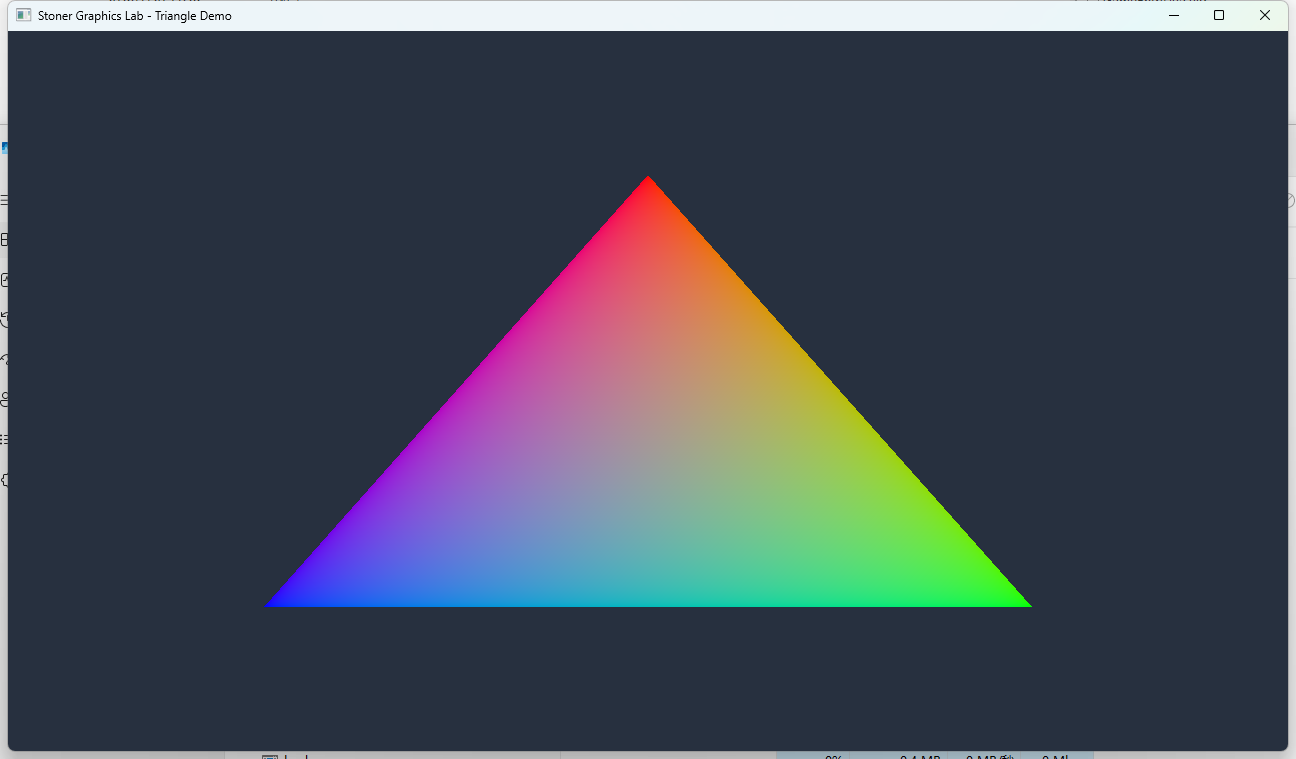
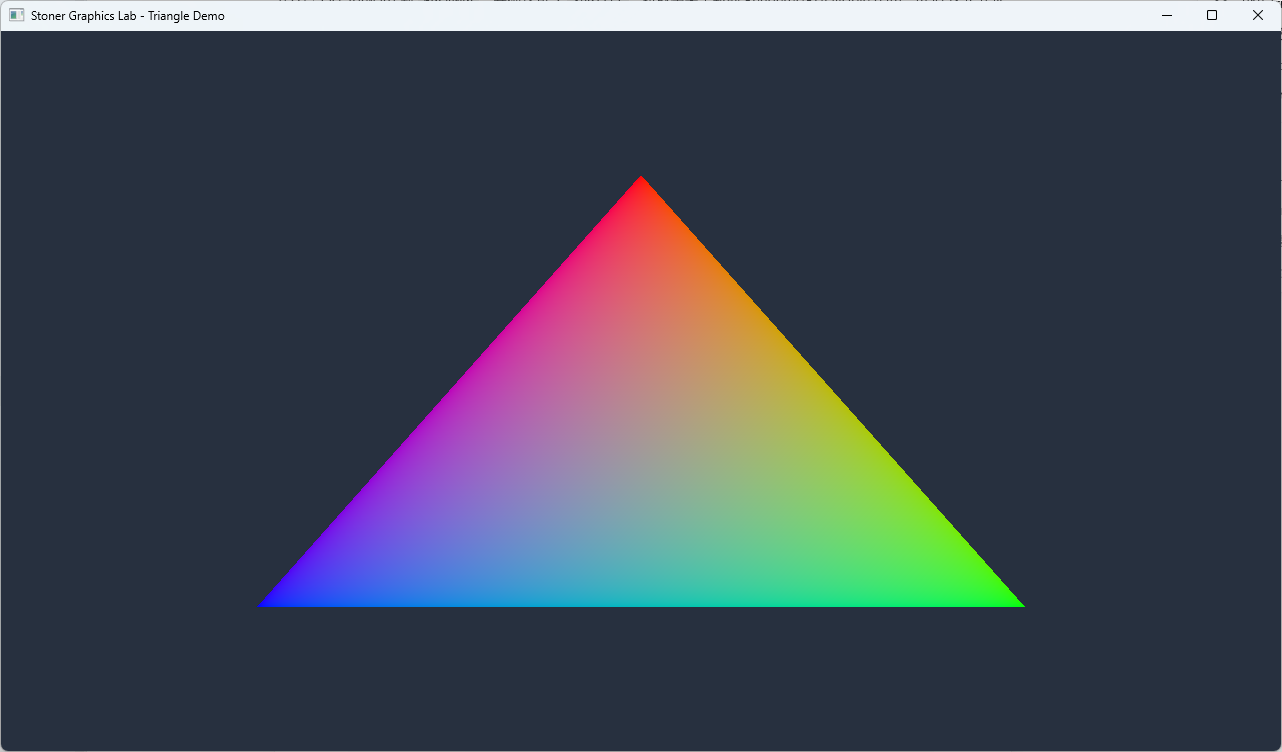
test(validation): refresh Windows triangle evidence

Changed region(s): [[0.0, 0.0, 1.0, 1.0], [0.1872, 0.7952, 0.8112, 0.8258]]

diff --git a/Validation/018/completion.md b/Validation/018/completion.md
@@ -12,8 +12,8 @@ Status: In progress
 - The same native probe returns controlled runtime-unavailable inside the Metal-inaccessible sandbox and never silently falls back.
 - Formal macOS run `macos-018-75f1e38-20260722T232702` completed naturally on an Apple M4 Pro with 10,000 of 10,000 frames, first presentation at 335.915 milliseconds, 22 recoveries with a 2.649-millisecond maximum, 75 RSS samples with 99,516,416-byte and 122,945,536-byte medians, and zero final live objects. Its same-run screenshot visibly shows one non-degenerate RGB-interpolated triangle without unrelated desktop content.
 - Windows debug build succeeds with Visual Studio Community 2026 (MSVC 19.51.36248), Vulkan SDK 1.4.350.0, and the persistent GLFW 3.4 package at `D:\Programs\glfw-3.4`; the full `StonerTest.exe` regression suite passes.
-- Windows deterministic validation completes 4,096 of 4,096 frames with 28 memory samples, a 9,293,824-byte baseline median, a 9,297,920-byte final median, and zero final live objects.
-- Historical Windows run `windows-018-682e236-20260721T112047` completed the formal profile and its screenshot shows one non-degenerate RGB-interpolated triangle. Because the visible frame path was subsequently routed through Renderer/RHI bindings, this pair is retained as development evidence but must be regenerated from the current implementation before final acceptance.
+- Current Windows deterministic validation at `69c404b` completes 4,096 of 4,096 frames with two configured frame slots, 28 memory samples, equal 8,519,680-byte baseline/final medians, and zero final live objects.
+- Formal Windows run `windows-018-69c404b-20260722T234116` completed naturally on an NVIDIA GeForce RTX 3080 with driver 581.32. It completed 10,000 of 10,000 frames through the Renderer/RHI visible path with two frame slots, first presented at 3,772.743 milliseconds, and recorded 21 recoveries after exactly 20 minimize/restore operations with a 47.526-millisecond maximum. Its 75 RSS samples produced 138,719,232-byte and 190,373,888-byte medians, final live objects were zero, and validation passed. The same-run window-only screenshot visibly shows one non-degenerate RGB-interpolated triangle without unrelated or sensitive desktop content; temporary per-cycle captures confirmed the triangle reappeared without corruption after every restore.
 - The current implementation prepares a real forward frame in Renderer, records it through `FForwardFrameExecutor` into native RHI bindings, and submits/presents it through two rotating frame slots with image-indexed render-finished synchronization.
 - Private-driver, demo orchestration, SPIR-V stage/entry-point, swapchain generation/stale-image, logical/framebuffer-size, minimize/restore, and close/Escape regression tests pass locally.
 - Three-platform deterministic and Linux Lavapipe validation jobs are configured in `.github/workflows/ci.yml`.
@@ -23,21 +23,20 @@ Status: In progress
 | Requirements | Status | Evidence or remaining gate |
 |---|---|---|
 | FR-001, FR-004 through FR-006 | Complete | Standalone target, checked-in validated shaders, vertex upload, and real offscreen Vulkan draw are implemented and tested. |
-| FR-002 | Complete on current macOS; Windows pending | GLFW creates and owns the primary visible window; current-path macOS evidence passes and Windows must be refreshed. |
-| FR-003, FR-007, FR-008 | Complete on current macOS; Windows pending | The demo builds a Renderer forward plan, consumes backend-neutral native RHI bindings through `FForwardFrameExecutor`, then submits/presents in Vulkan without leaking native types upward. |
-| FR-009, FR-010 | Complete on current macOS; Windows pending | The visible loop polls events, acquires, records through Renderer/RHI, rotates two frame slots, submits with image-indexed synchronization, and presents through the real swapchain. |
-| FR-011 through FR-013 | Complete on current macOS; Windows pending | Generation-aware recreation, zero-extent pause, and 22 real macOS recoveries pass with a 2.649-millisecond maximum. |
+| FR-002 | Complete on current Windows and macOS | GLFW creates and owns the primary visible window; both current-path evidence pairs pass manual inspection. |
+| FR-003, FR-007, FR-008 | Complete on current Windows and macOS | The demo builds a Renderer forward plan, consumes backend-neutral native RHI bindings through `FForwardFrameExecutor`, then submits/presents in Vulkan without leaking native types upward. |
+| FR-009, FR-010 | Complete on current Windows and macOS | The visible loop polls events, acquires, records through Renderer/RHI, rotates two frame slots, submits with image-indexed synchronization, and presents through the real swapchain. |
+| FR-011 through FR-013 | Complete on current Windows and macOS | Generation-aware recreation and zero-extent pause pass 22 macOS recoveries (2.649-millisecond maximum) and 21 Windows recoveries (47.526-millisecond maximum). |
 | FR-014 through FR-017 | Complete for implemented modes | Strict CLI, bounded validation, reverse shutdown, stable diagnostics, failure injection, deterministic coverage, and interactive visible execution pass. |
-| FR-018 | Partial | Three-platform workflow and Linux Lavapipe job are configured; green CI identity plus fresh Windows/macOS evidence are pending after the visible-path integration. |
+| FR-018 | Partial | Three-platform workflow and Linux Lavapipe job are configured, and both current-path visible evidence pairs pass; green CI identity and Linux artifact inspection remain pending. |
 | FR-019 through FR-021 | Complete | Memory/live-object gates, full local regressions, and the hardcoded-triangle scope boundary are covered. |
-| SC-001 | Complete on current macOS; Windows pending | macOS first presentation passes at 335.915 milliseconds with matching screenshot/log evidence. |
+| SC-001 | Complete on current Windows and macOS | First presentation passes at 335.915 milliseconds on macOS and 3,772.743 milliseconds on Windows with matching screenshot/log evidence. |
 | SC-002, SC-004 through SC-006, SC-008, SC-009 | Complete for local applicable paths | Deterministic endurance/failure tests pass; native macOS offscreen endurance also passes. |
-| SC-003 | Complete on current macOS; Windows pending | Deterministic timing boundaries pass and all 22 macOS recoveries are below 2,000 milliseconds. |
+| SC-003 | Complete on current Windows and macOS | Deterministic timing boundaries pass; all 22 macOS and 21 Windows observed recoveries are below 2,000 milliseconds. |
 | SC-007 | Pending | Requires a green identified CI matrix, Linux Lavapipe artifact, and both visible platform evidence pairs. |
 
 ## External Completion Gates
 
 - GitHub Actions run/commit identity and Linux Lavapipe artifact have not yet been inspected.
 - macOS run `macos-018-75f1e38-20260722T232702` has a matching screenshot and normalized passing log; both were manually inspected.
-- Windows run `windows-018-682e236-20260721T112047` has a matching local screenshot and normalized log, but predates the Renderer/RHI visible-path integration and must be regenerated.
-- The real Windows 10,000-frame/20-cycle validation must be repeated on the current implementation.
+- Windows run `windows-018-69c404b-20260722T234116` has a matching window-only screenshot and normalized passing log; both were manually inspected against the current Renderer/RHI visible path.

diff --git a/specs/018-triangle-demo-integration/quickstart.md b/specs/018-triangle-demo-integration/quickstart.md
@@ -253,8 +253,8 @@ The build and complete regression suite passed. The deterministic profile comple
 4,096 of 4,096 frames with 28 post-warm-up RSS samples, equal 9,060,352-byte baseline
 and final medians, two configured frame slots, zero final live objects, and a passing
 validation result. Because this change replaces the native visible recording path,
-the earlier Windows screenshot/log pair is historical evidence and Windows/macOS
-formal visible validation must run again before Feature 018 completion.
+the earlier Windows screenshot/log pair is historical evidence; the subsequent formal
+macOS and Windows runs below refresh both platforms on the Renderer/RHI path.
 
 ## Formal macOS Visible Validation (2026-07-22)
 
@@ -267,3 +267,25 @@ baseline/final medians of 99,516,416 and 122,945,536 bytes, remaining within the
 The matching `Validation/018/macOS/triangle.png` was manually inspected and shows one
 non-degenerate triangle with distinguishable red, green, and blue vertices and smooth
 interpolation, with no unrelated desktop content.
+
+## Formal Windows Visible Validation (2026-07-22)
+
+The current `69c404b` Windows build and complete regression suite passed. Its
+deterministic profile completed 4,096 of 4,096 frames with two configured frame slots,
+28 post-warm-up RSS samples, equal 8,519,680-byte baseline/final medians, zero final
+live objects, and a passing validation result.
+
+Run `windows-018-69c404b-20260722T234116` completed naturally with exit code 0 on an
+NVIDIA GeForce RTX 3080 using driver 581.32. It completed 10,000 of 10,000 frames
+through the Renderer/RHI visible path with two frame slots, first presented at
+3,772.743 milliseconds, and recorded 21 valid recoveries after exactly 20
+minimize/restore operations with a 47.526-millisecond maximum. The 75 post-warm-up
+RSS samples produced baseline/final medians of 138,719,232 and 190,373,888 bytes,
+remaining within the 64 MiB/10% configured growth gate. Final live objects were zero,
+validation passed, and the normalized log contains no native address.
+
+The matching `Validation/018/Windows/triangle.png` was captured from the DWM visible
+window bounds and manually inspected. It contains only the StonerDemo window and shows
+one non-degenerate triangle with red, green, and blue vertices, smooth interpolation,
+and no rendering corruption. Temporary same-run client captures confirmed that the
+triangle reappeared correctly after each of the 20 restore operations.

diff --git a/specs/018-triangle-demo-integration/tasks.md b/specs/018-triangle-demo-integration/tasks.md
@@ -149,7 +149,7 @@
 - [X] T057 [US4] Update the Windows/macOS/Linux GitHub Actions matrix to build `StonerDemo`, run all regressions and deterministic validation, provision Linux Vulkan/Mesa/glslang tools, execute Lavapipe native headless validation, and upload success/failure reports in `.github/workflows/ci.yml`
 - [ ] T058 [US4] Run or inspect the complete GitHub Actions matrix and record the commit/run identity plus deterministic and Linux Lavapipe outcomes in `Validation/018/completion.md`
 - [X] T059 [US4] Perform the required 10,000-frame macOS real-window validation, confirm first presentation within 5,000 milliseconds, execute 20 resize/minimize/restore cycles each recovering within 2,000 milliseconds, confirm RGB triangle pixels, and retain the same-run screenshot and normalized timing log in `Validation/018/macOS/triangle.png` and `Validation/018/macOS/triangle.log`
-- [ ] T060 [US4] Perform the required 10,000-frame Windows real-window validation, confirm first presentation within 5,000 milliseconds, execute 20 resize/minimize/restore cycles each recovering within 2,000 milliseconds, confirm RGB triangle pixels, and retain the same-run screenshot and normalized timing log in `Validation/018/Windows/triangle.png` and `Validation/018/Windows/triangle.log`
+- [X] T060 [US4] Perform the required 10,000-frame Windows real-window validation, confirm first presentation within 5,000 milliseconds, execute 20 resize/minimize/restore cycles each recovering within 2,000 milliseconds, confirm RGB triangle pixels, and retain the same-run screenshot and normalized timing log in `Validation/018/Windows/triangle.png` and `Validation/018/Windows/triangle.log`
 - [ ] T061 [US4] Verify both visible evidence pairs, Linux report, and CI identity against the validation contract and finalize references with no accepted gaps in `Validation/018/completion.md`
 
 **Checkpoint**: US4 and Feature 018 are complete only after CI is green and both real-window evidence pairs exist and pass manual review.
